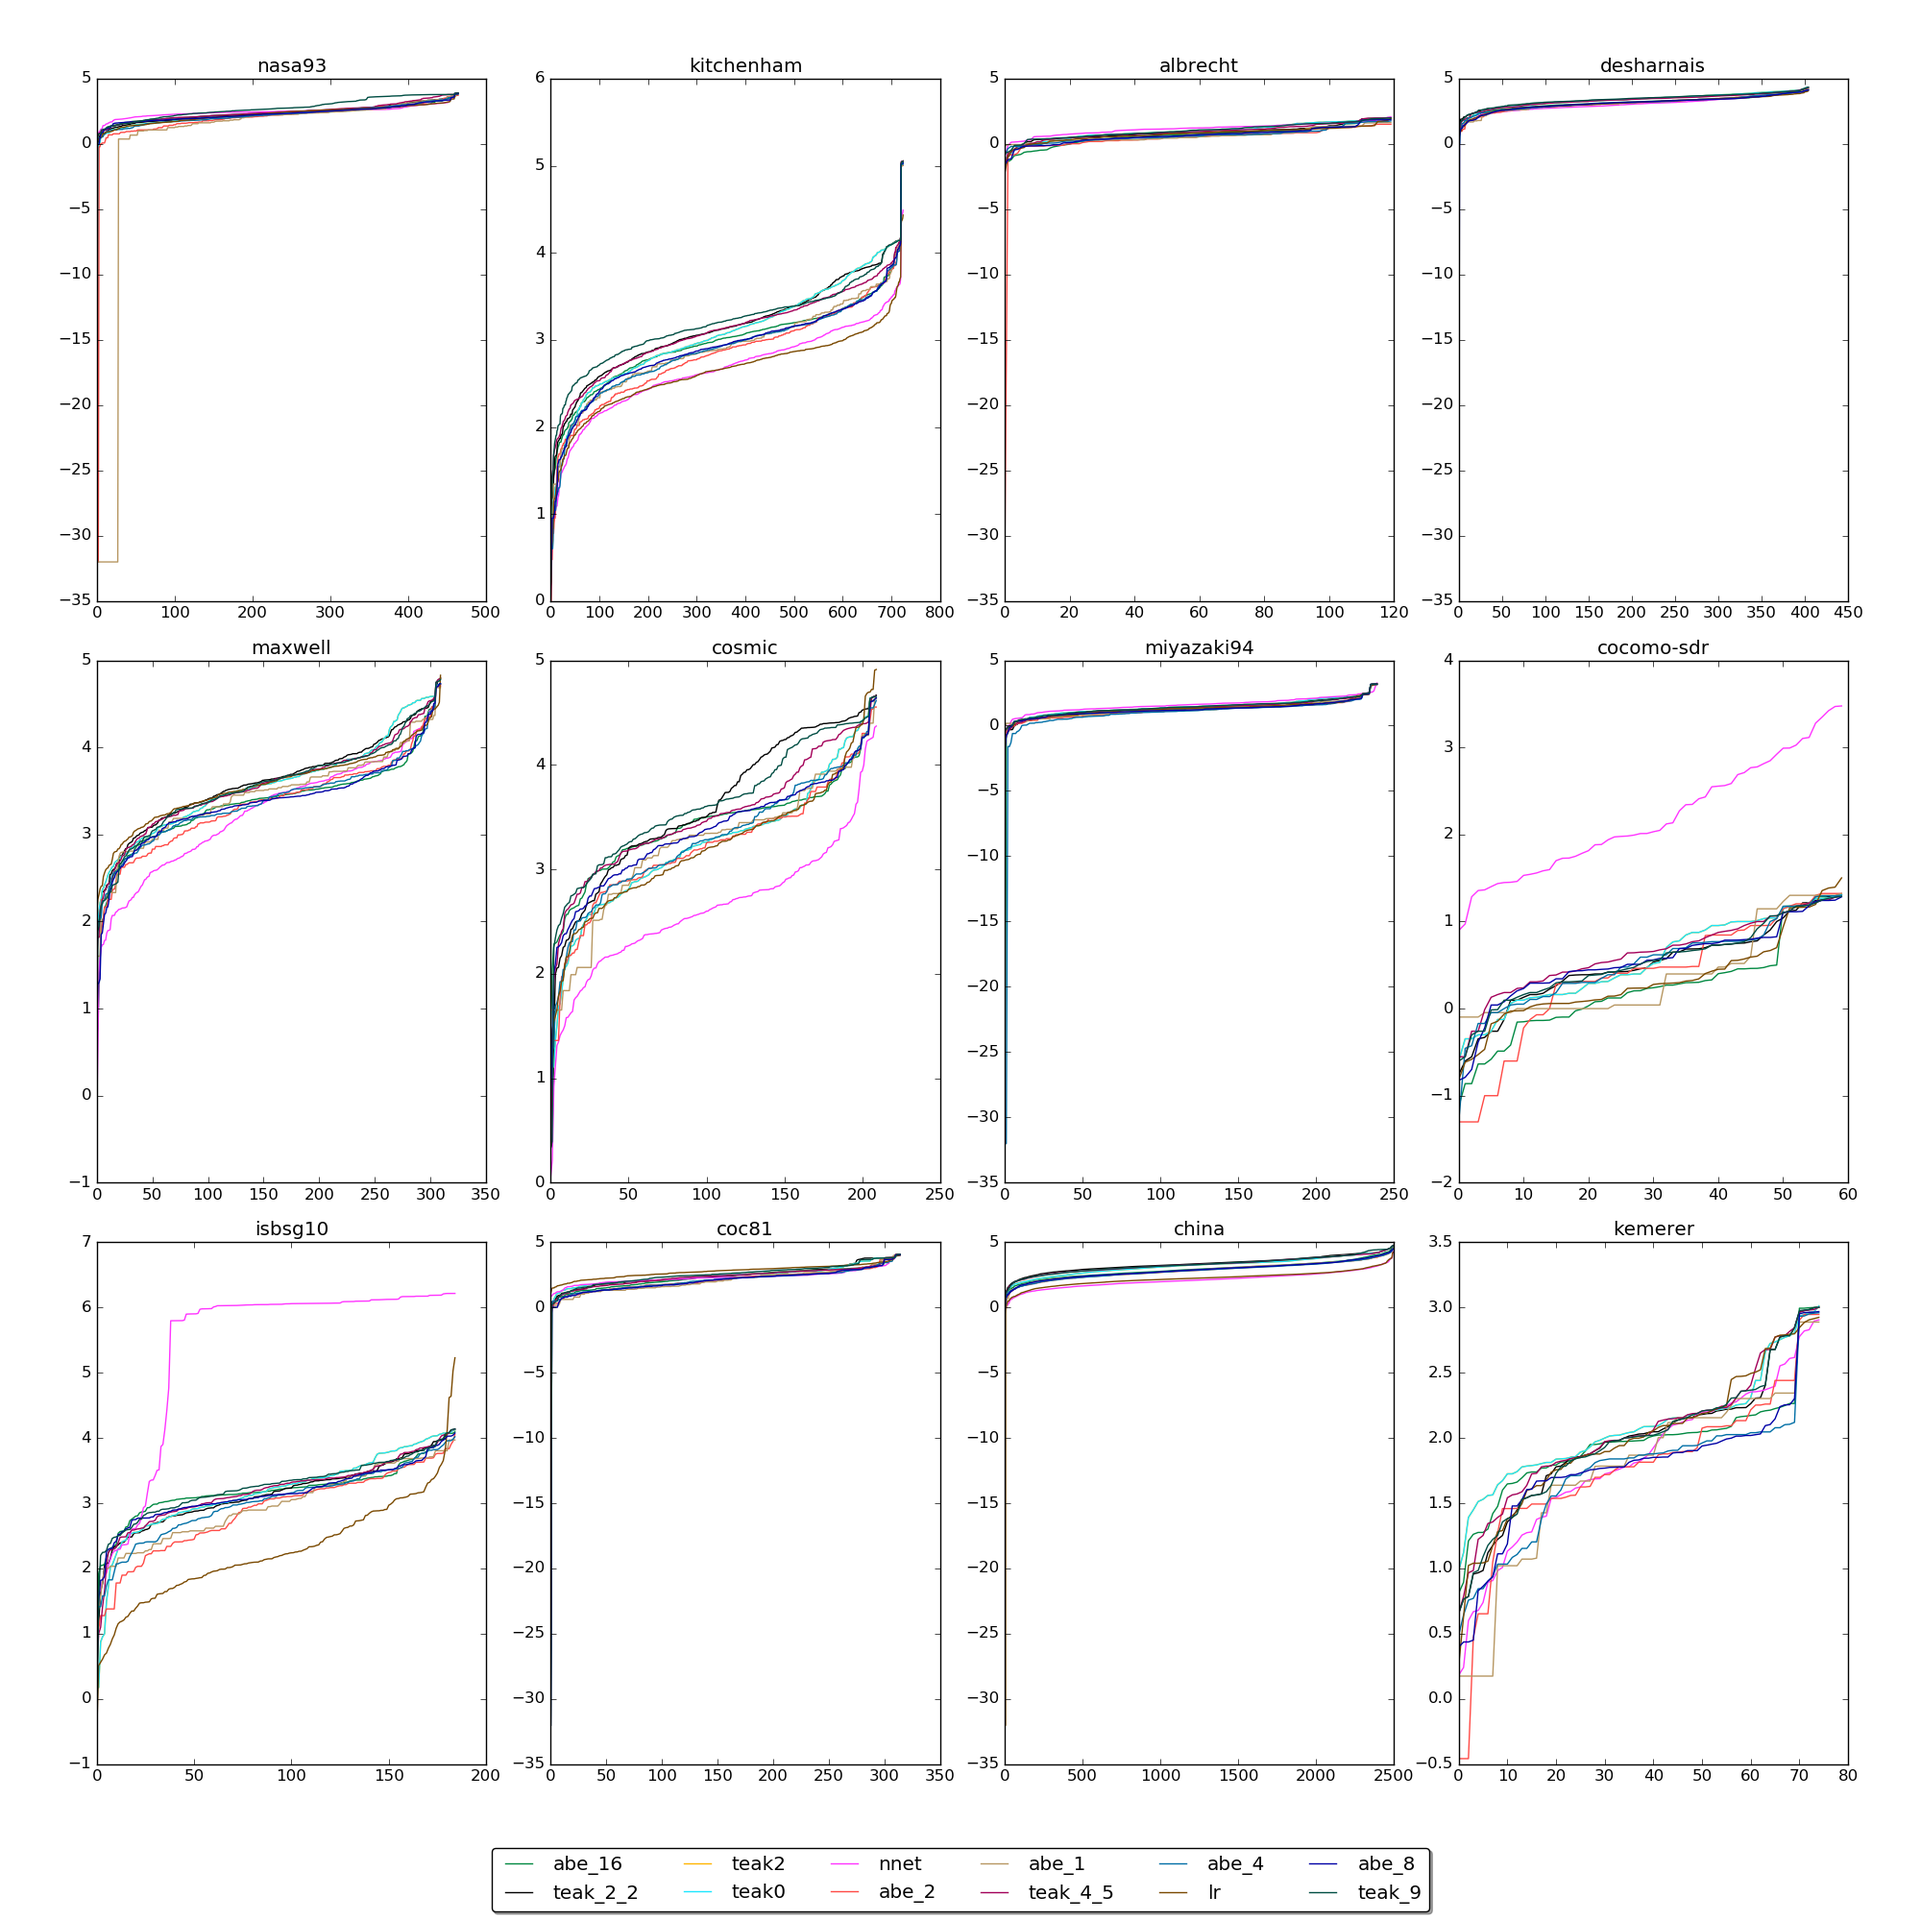
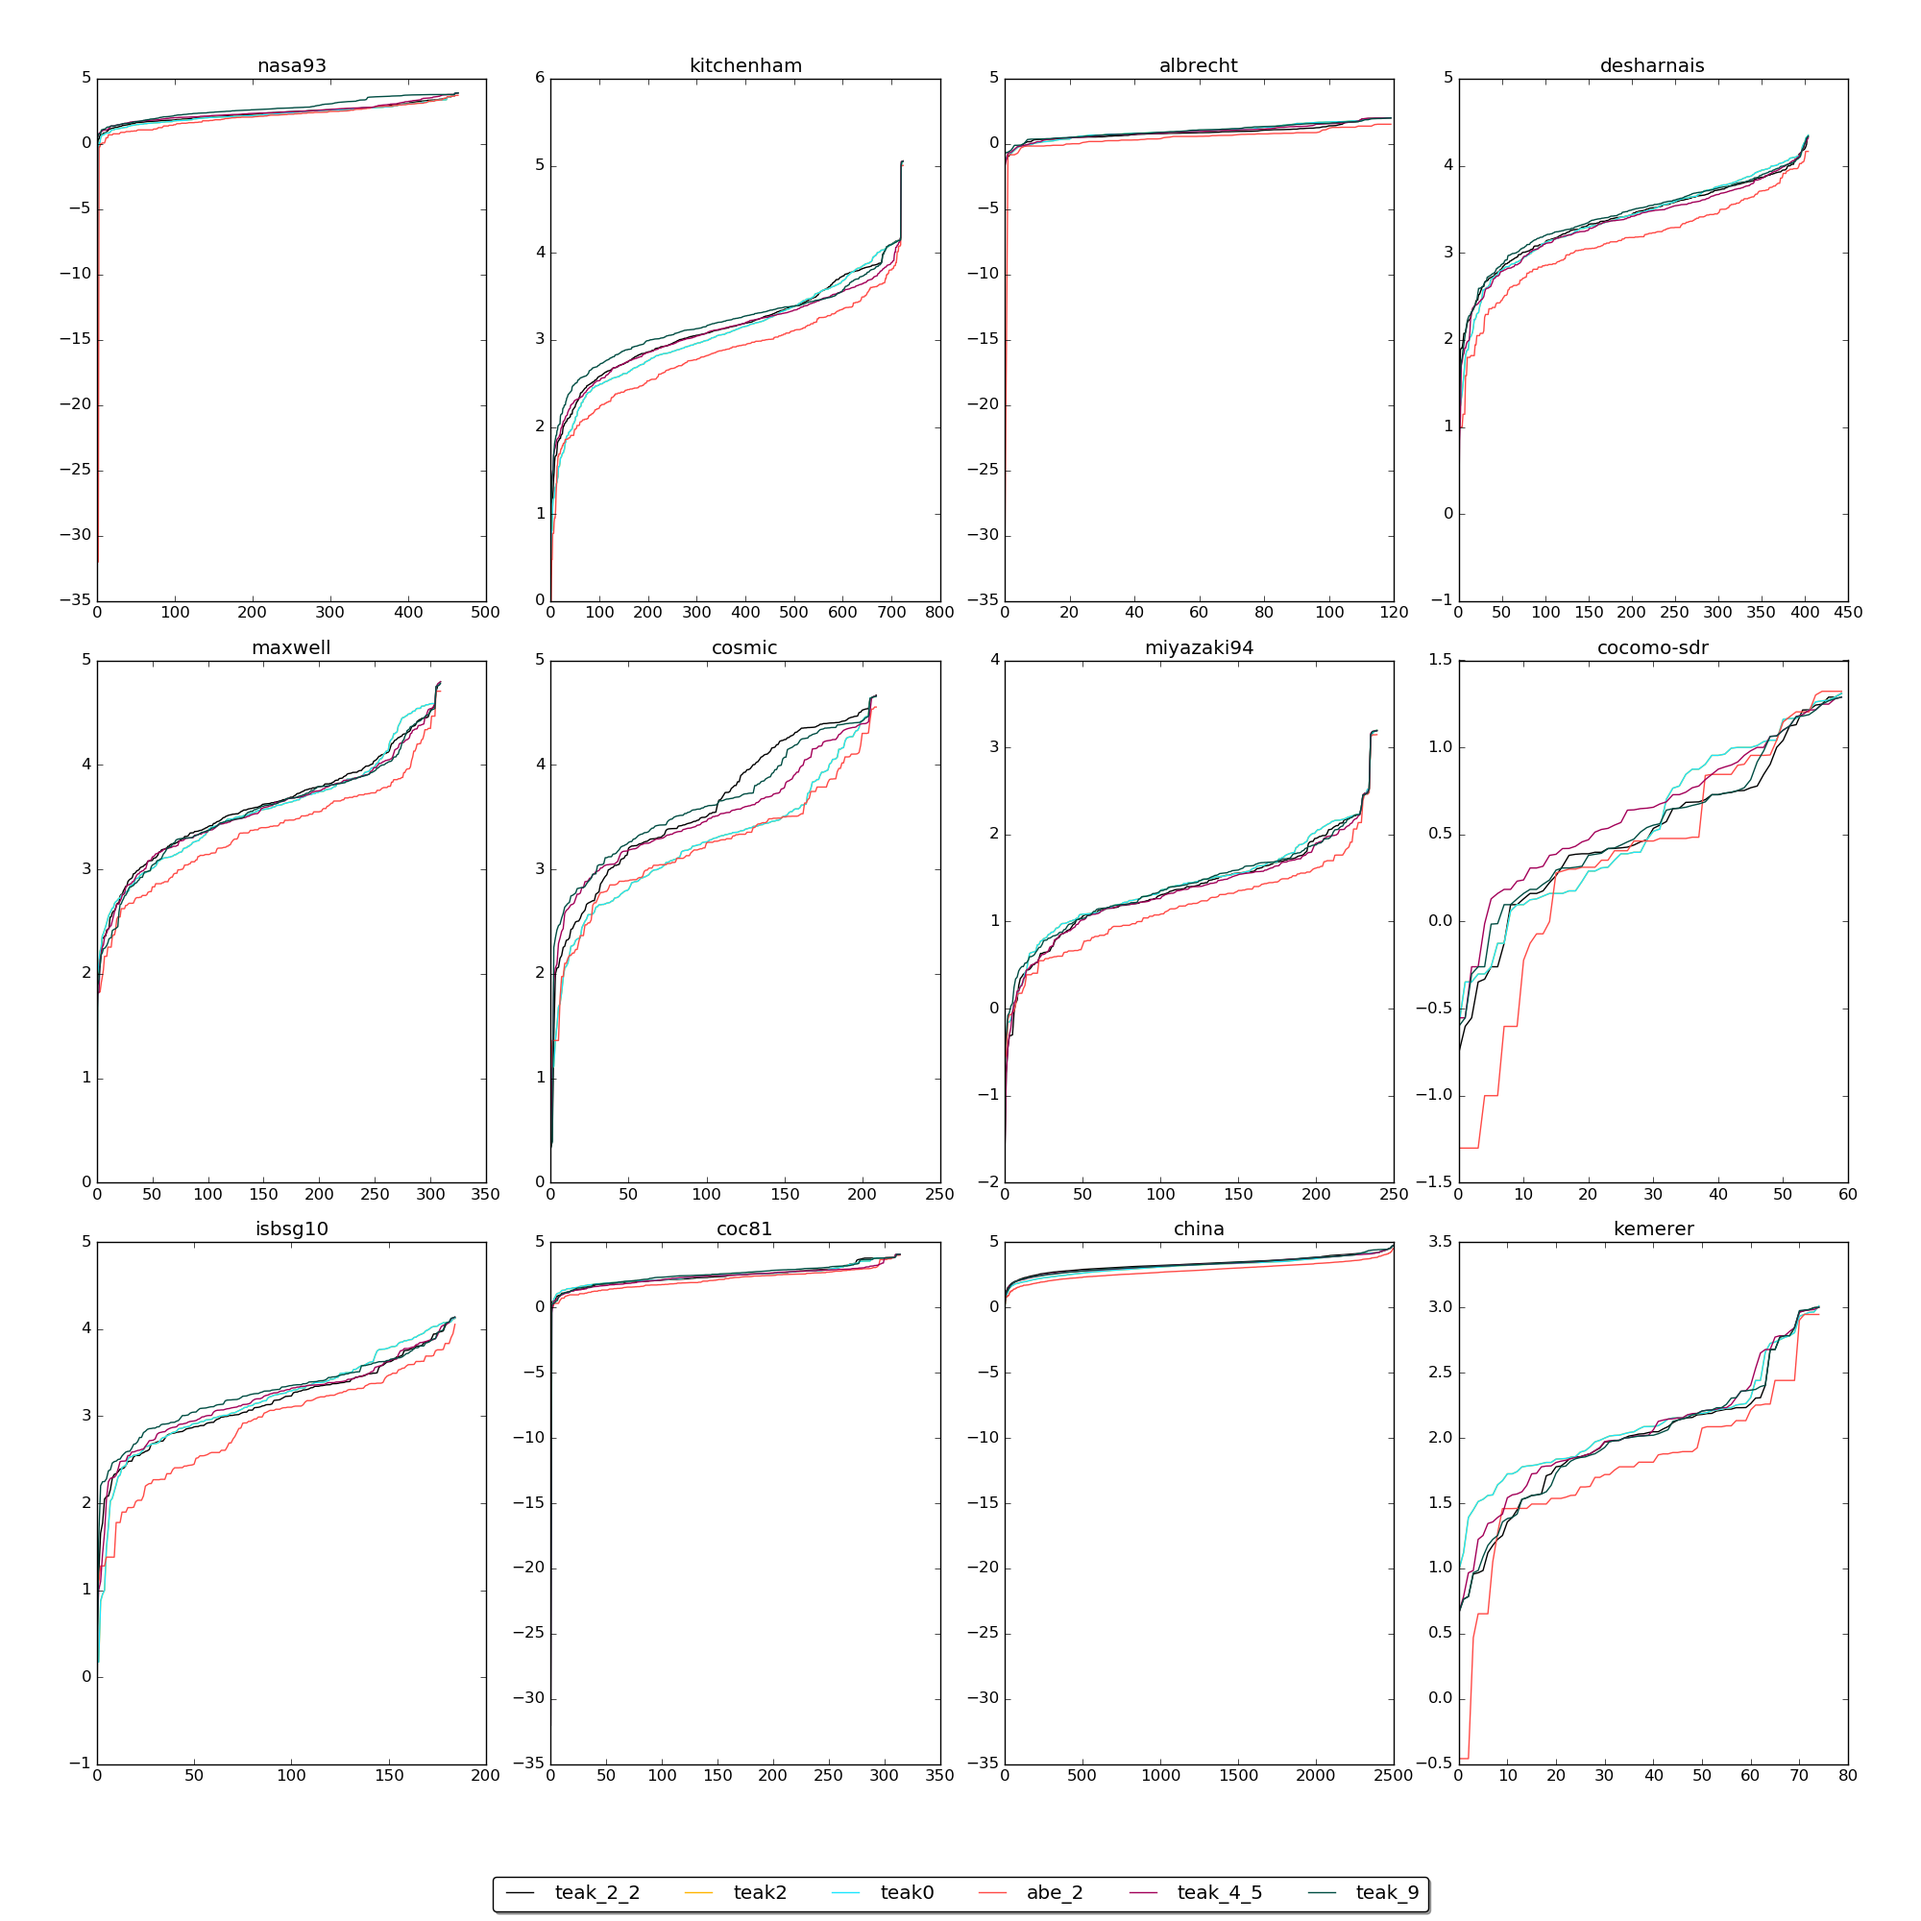
images

diff --git a/project/code/effort_estimators/reports.py b/project/code/effort_estimators/reports.py
@@ -68,9 +68,12 @@ class Reports:
 
     @staticmethod
     def generate_error_charts(datasets):
-        colors = {'teak_2_2' : "#000000", 'teak2' : "#FFB500", 'teak0' : "#1CE6FF", 'nnet' : "#FF34FF", \
-                    'abe_2' : "#FF4A46", 'abe_16' : "#008941", 'abe_1' : "#B79762", 'teak_4_5' : "#A30059", \
-                    'abe_4' : "#006FA6", 'lr' : "#7A4900", 'abe_8' : "#0000A6", 'teak_9' : "#004D43"}
+        #colors = {'teak_2_2' : "#000000", 'teak2' : "#FFB500", 'teak0' : "#1CE6FF", 'nnet' : "#FF34FF", \
+        #            'abe_2' : "#FF4A46", 'abe_16' : "#008941", 'abe_1' : "#B79762", 'teak_4_5' : "#A30059", \
+        #            'abe_4' : "#006FA6", 'lr' : "#7A4900", 'abe_8' : "#0000A6", 'teak_9' : "#004D43"}
+        colors = {'teak_2_2' : "#000000", 'teak2' : "#FFB500", 'teak0' : "#1CE6FF", \
+                    'abe_2' : "#FF4A46", 'teak_4_5' : "#A30059", \
+                    'teak_9' : "#004D43"}
 
         error_names = {"ar" : "Absolute Residual Error", "mr" : "Magnitude Relative Error"}
 
